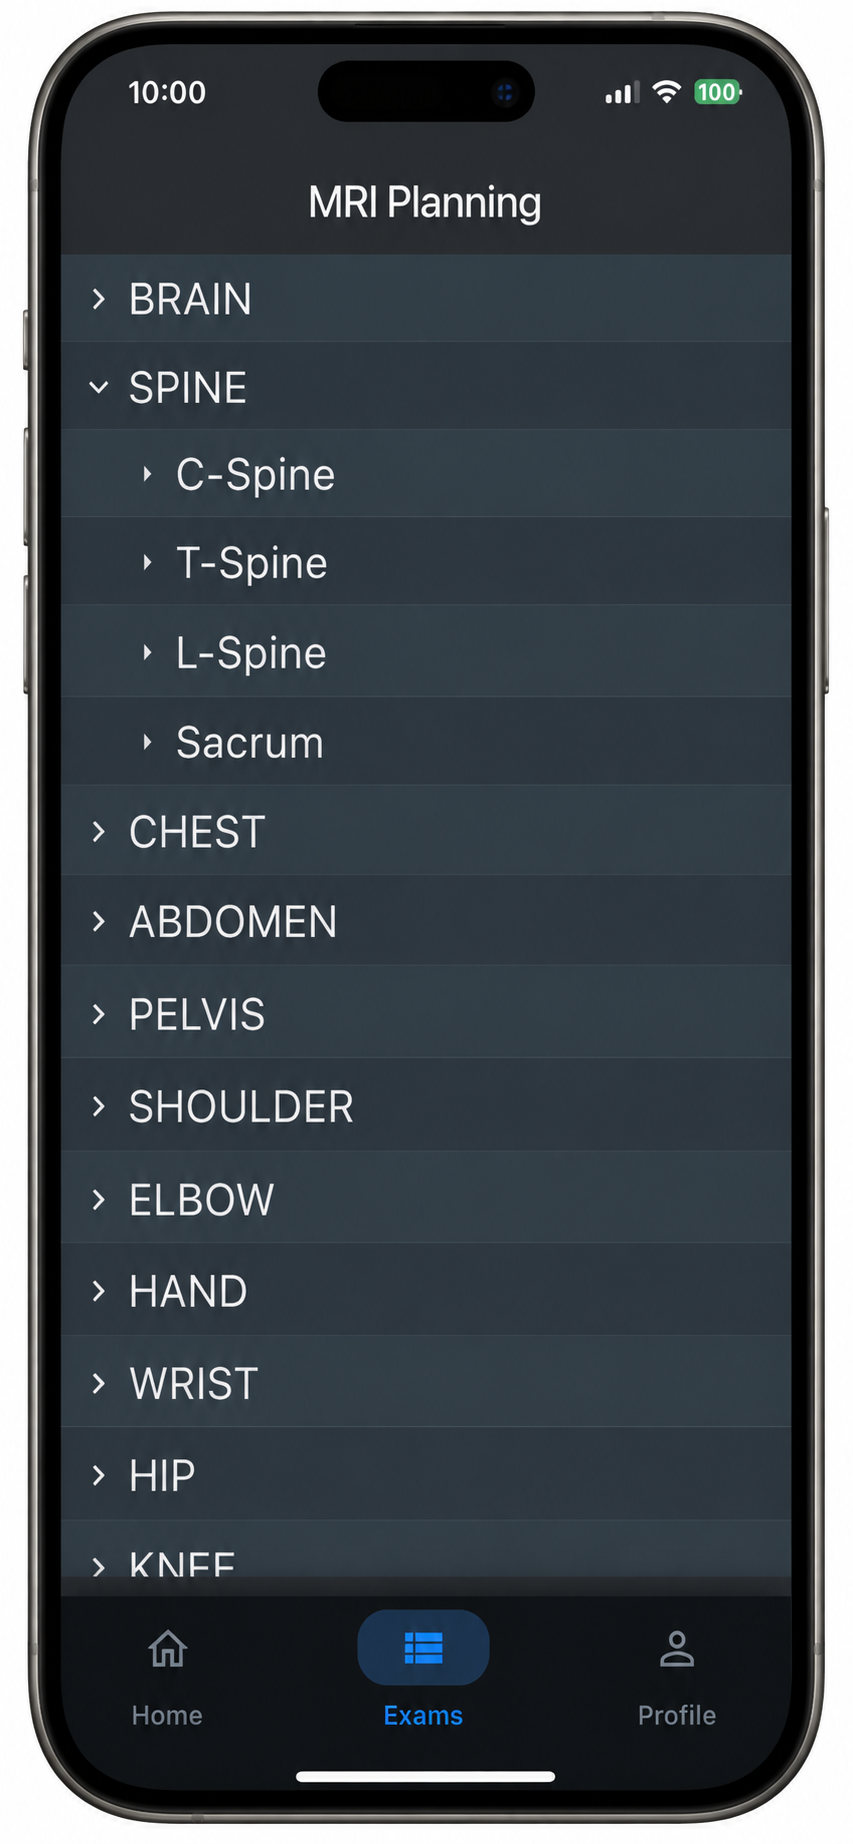
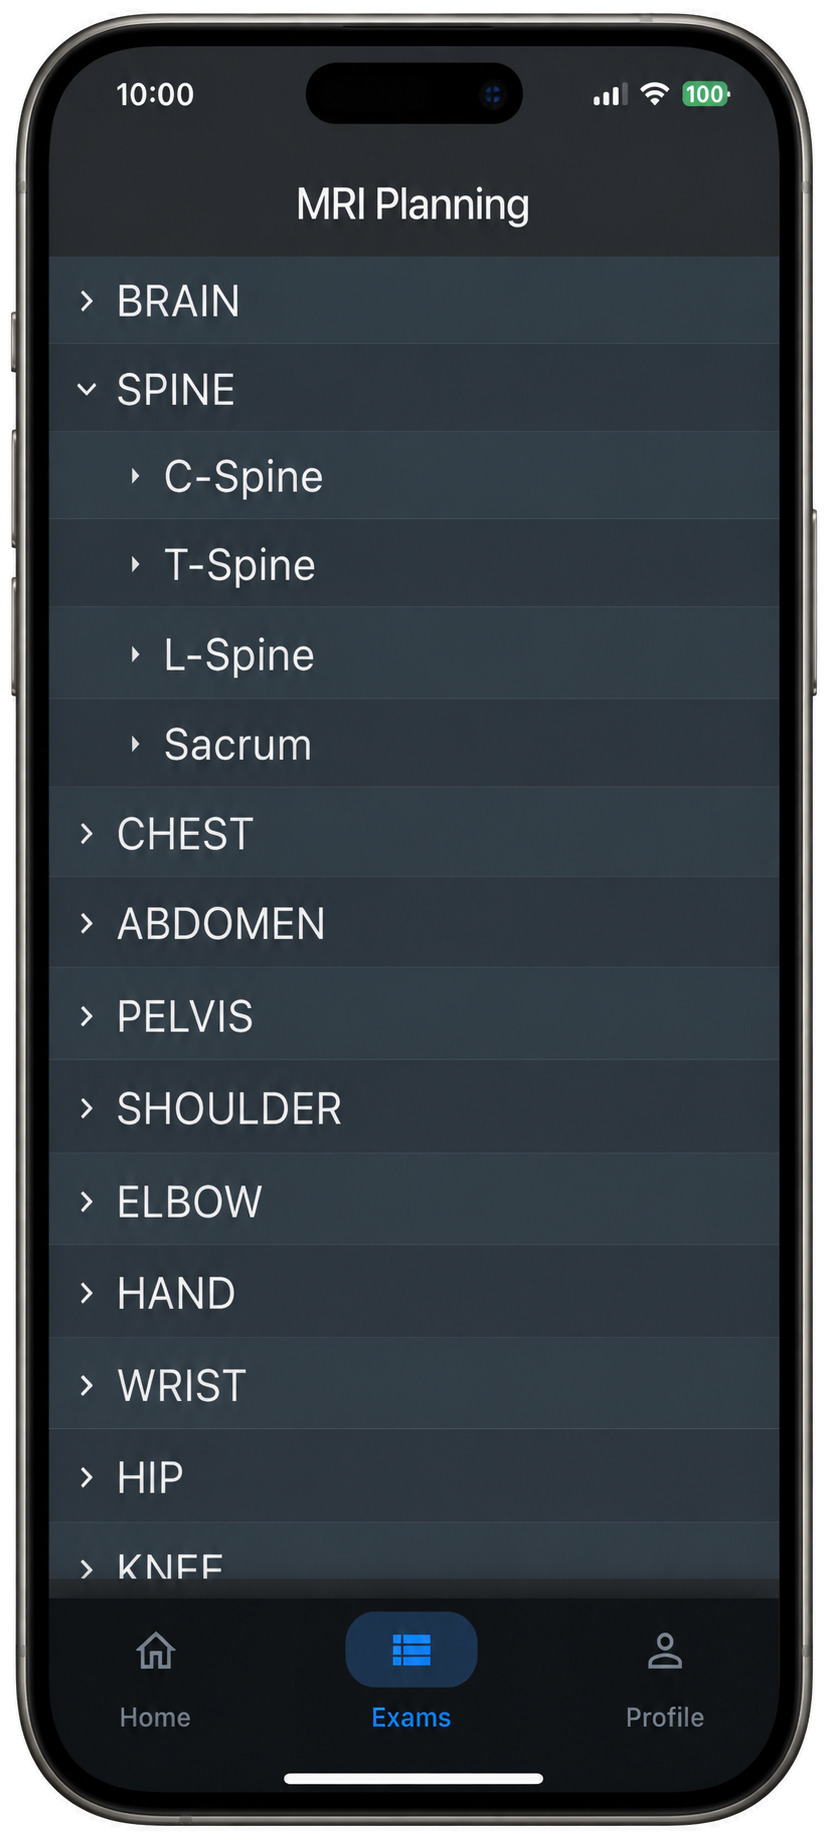
new look

Changed region(s): [[0.0, 0.0, 0.9964, 1.0], [0.3623, 0.0929, 0.6341, 0.1239]]

diff --git a/data/content.ts b/data/content.ts
@@ -61,7 +61,7 @@ export const modules: Module[] = [
 export const features = [
   {
     title: "Interactive slice planning",
-    text: "Position and angle slices across axial, sagittal, and coronal views with direct manipulation controls that mirror the mental model used at the console.",
+    text: "Review clear planning guidance in Teaching Notes before you begin, then apply what you’ve learned by positioning and angling slices across axial, sagittal, and coronal views.",
   },
   {
     title: "Realistic anatomy references",
@@ -95,8 +95,8 @@ export const processSteps = [
     text: "Set position, angle, center, and coverage using touch-friendly planning controls.",
   },
   {
-    title: "Use Hints and Notes",
-    text: "Learn correct slice positioning, angle, and coverage with hints and teaching notes.",
+    title: "Use Teaching Notes",
+    text: "Learn correct slice positioning, angulation, coverage, and field-of-view sizing with Teaching Notes.",
   },
   {
     title: "Repeat with confidence",
